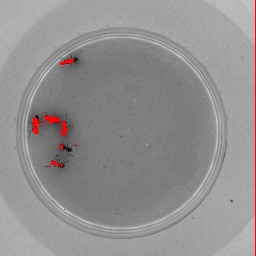
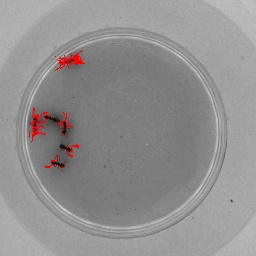
finalize affine parameters

diff --git a/hw3/code/testAntSequence.py b/hw3/code/testAntSequence.py
@@ -7,8 +7,8 @@ from SubtractDominantMotion import *
 
 parser = argparse.ArgumentParser()
 parser.add_argument('--num_iters', type=int, default=1000, help='number of iterations of Lucas-Kanade')
-parser.add_argument('--threshold', type=float, default=4, help='dp threshold of Lucas-Kanade for terminating optimization')
-parser.add_argument('--tolerance', type=float, default=0.2, help='binary threshold of intensity difference when computing the mask')
+parser.add_argument('--threshold', type=float, default=10, help='dp threshold of Lucas-Kanade for terminating optimization')
+parser.add_argument('--tolerance', type=float, default=0.05, help='binary threshold of intensity difference when computing the mask')
 args = parser.parse_args()
 num_iters = args.num_iters
 threshold = args.threshold
